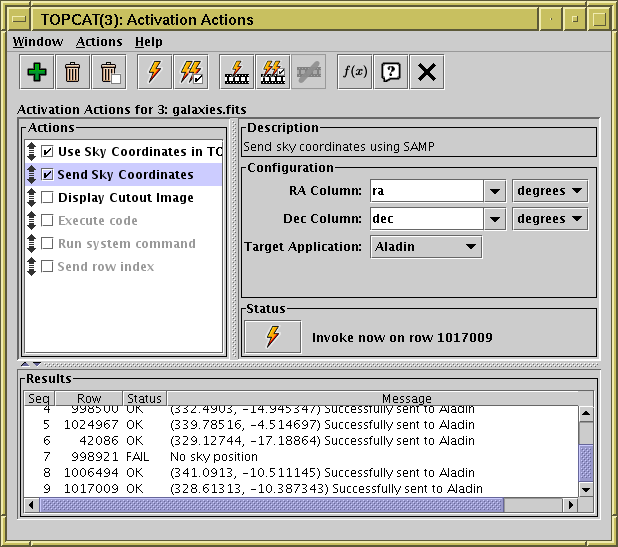
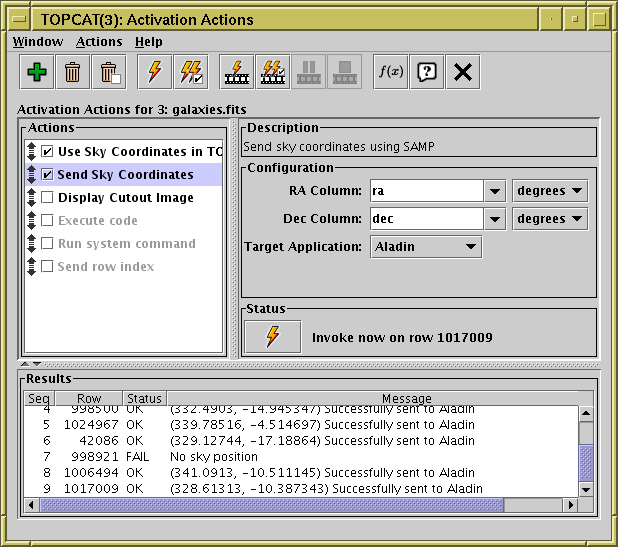
topcat: add pause button to Activation Window
The activation window allows you to schedule a sequence of activation
actions, one for every row in the (current subset of) the selected table.
There was already a button that can abort this sequence at user request,
but this commit adds another button that can be used to pause the
sequence, and restart it from the same place later.

This was added at the suggestion of Petr Skoda.

Changed region(s): [[0.4612, 0.0932, 0.7994, 0.1865]]

diff --git a/topcat/src/main/uk/ac/starlink/topcat/activate/ActivationWindow.java b/topcat/src/main/uk/ac/starlink/topcat/activate/ActivationWindow.java
@@ -51,6 +51,8 @@ import javax.swing.SwingUtilities;
 import javax.swing.UIManager;
 import javax.swing.border.Border;
 import javax.swing.border.TitledBorder;
+import javax.swing.event.ChangeEvent;
+import javax.swing.event.ChangeListener;
 import javax.swing.event.ListDataEvent;
 import javax.swing.event.ListDataListener;
 import javax.swing.event.ListSelectionEvent;
@@ -62,6 +64,7 @@ import uk.ac.starlink.topcat.LineBox;
 import uk.ac.starlink.topcat.MethodWindow;
 import uk.ac.starlink.topcat.ResourceIcon;
 import uk.ac.starlink.topcat.Safety;
+import uk.ac.starlink.topcat.ToggleButtonModel;
 import uk.ac.starlink.topcat.TopcatEvent;
 import uk.ac.starlink.topcat.TopcatModel;
 import uk.ac.starlink.topcat.ViewerTableModel;
@@ -91,6 +94,7 @@ public class ActivationWindow extends AuxWindow {
     private final AllSequenceAction allSeqAct_;
     private final CancelSequenceAction cancelSeqAct_;
     private final ApproveAllAction approveAllAct_;
+    private final SequencePauser seqPauser_;
     private final ActionListener statusListener_;
     private final JProgressBar progBar_;
     private final ThreadFactory seqThreadFact_;
@@ -317,6 +321,8 @@ public class ActivationWindow extends AuxWindow {
         allSeqAct_ = new AllSequenceAction();
         cancelSeqAct_ = new CancelSequenceAction();
         approveAllAct_ = new ApproveAllAction();
+        seqPauser_ = new SequencePauser();
+        ToggleButtonModel pauseModel = seqPauser_.model_;
 
         list_.addListSelectionListener( new ListSelectionListener() {
             public void valueChanged( ListSelectionEvent evt ) {
@@ -444,6 +450,7 @@ public class ActivationWindow extends AuxWindow {
         actMenu.addSeparator();
         actMenu.add( singleSeqAct_ );
         actMenu.add( allSeqAct_ );
+        actMenu.add( pauseModel.createMenuItem() );
         actMenu.add( cancelSeqAct_ );
 
         /* Add tools. */
@@ -457,6 +464,7 @@ public class ActivationWindow extends AuxWindow {
         toolbar.addSeparator();
         toolbar.add( singleSeqAct_ );
         toolbar.add( allSeqAct_ );
+        toolbar.add( pauseModel.createToolbarButton() );
         toolbar.add( cancelSeqAct_ );
         toolbar.addSeparator();
         toolbar.add( MethodWindow.getWindowAction( this, true ) );
@@ -792,6 +800,7 @@ public class ActivationWindow extends AuxWindow {
         singleSeqAct_.configure();
         allSeqAct_.configure();
         cancelSeqAct_.configure();
+        seqPauser_.configure();
     }
 
     /**
@@ -886,6 +895,63 @@ public class ActivationWindow extends AuxWindow {
             new SendIndexActivationType( true ),
         } ) );
         return list.toArray( new ActivationType[ 0 ] );
+    }
+
+    /**
+     * Manages pausing of a programmed sequence of activation actions.
+     * The main job of this class is to mediate between activities on
+     * the Event Dispatch Thread whose sequence is ensured by the
+     * single-threaded nature of the GUI and a lock object that may
+     * be accessed from different threads.
+     */
+    private class SequencePauser {
+        private final Object lock_;
+        private final ToggleButtonModel model_;
+        private boolean isPaused_;
+        
+        SequencePauser() {
+            lock_ = this;
+            model_ = new ToggleButtonModel( "Pause Sequence",
+                                            ResourceIcon.PAUSE_SEQ,
+                                            "Pause (or unpause) a running "
+                                          + "sequence of actions" );
+            model_.setSelected( false );
+            model_.addChangeListener( new ChangeListener() {
+                public void stateChanged( ChangeEvent evt ) {
+                    boolean isSelected = model_.isSelected();
+                    synchronized ( lock_ ) {
+                        if ( isPaused_ != isSelected ) {
+                            isPaused_ = isSelected;
+                            lock_.notifyAll();
+                        }
+                    }
+                }
+            } );
+            configure();
+        }
+
+        /**
+         * Will block until this object's button model is no longer
+         * in the paused state.
+         */
+        public void waitIfPaused() throws InterruptedException {
+            synchronized ( lock_ ) {
+                while ( isPaused_ ) {
+                    lock_.wait();
+                }
+            }
+        }
+
+        /** 
+         * Configure for current state.  Should be called if anything,
+         * especially anything that may affect the enabledness, changes.
+         */
+        public void configure() {
+            model_.setEnabled( sequenceQueue_ != null );
+            if ( sequenceQueue_ == null ) {
+                model_.setSelected( false );
+            }
+        }
     }
 
     /**
@@ -1100,6 +1166,7 @@ public class ActivationWindow extends AuxWindow {
                 int ir = 0;
                 for ( Iterator<Long> it = viewModel.getRowIndexIterator();
                       it.hasNext() && ! queue.isShutdown(); ) {
+                    seqPauser_.waitIfPaused();
                     final long lrow = it.next().longValue();
                     queue.submit( new Runnable() {
                         public void run() {
@@ -1222,6 +1289,7 @@ public class ActivationWindow extends AuxWindow {
                 int ir = 0;
                 for ( Iterator<Long> it = viewModel.getRowIndexIterator();
                       it.hasNext() && ! queue.isShutdown(); ) {
+                    seqPauser_.waitIfPaused();
                     final long lrow = it.next().longValue();
 
                     /* Prepare a list of all the actions to be invoked. */

diff --git a/topcat/src/main/uk/ac/starlink/topcat/ResourceIcon.java b/topcat/src/main/uk/ac/starlink/topcat/ResourceIcon.java
@@ -152,7 +152,8 @@ public class ResourceIcon implements Icon {
         REACTIVATE_ALL = makeIcon( "flash-2d.png" ),
         ACTIVATE_SEQ = makeIcon( "flash1seq.png" ),
         ACTIVATE_SEQ_ALL = makeIcon( "flash2seq.png" ),
-        CANCEL_SEQ = makeIcon( "noseq.png" ),
+        PAUSE_SEQ = makeIcon( "pauseseq.png" ),
+        CANCEL_SEQ = makeIcon( "stopseq.png" ),
         DELETE_INACTIVE = makeIcon( "trash2-box.png" ),
 
         /* Specific actions. */
